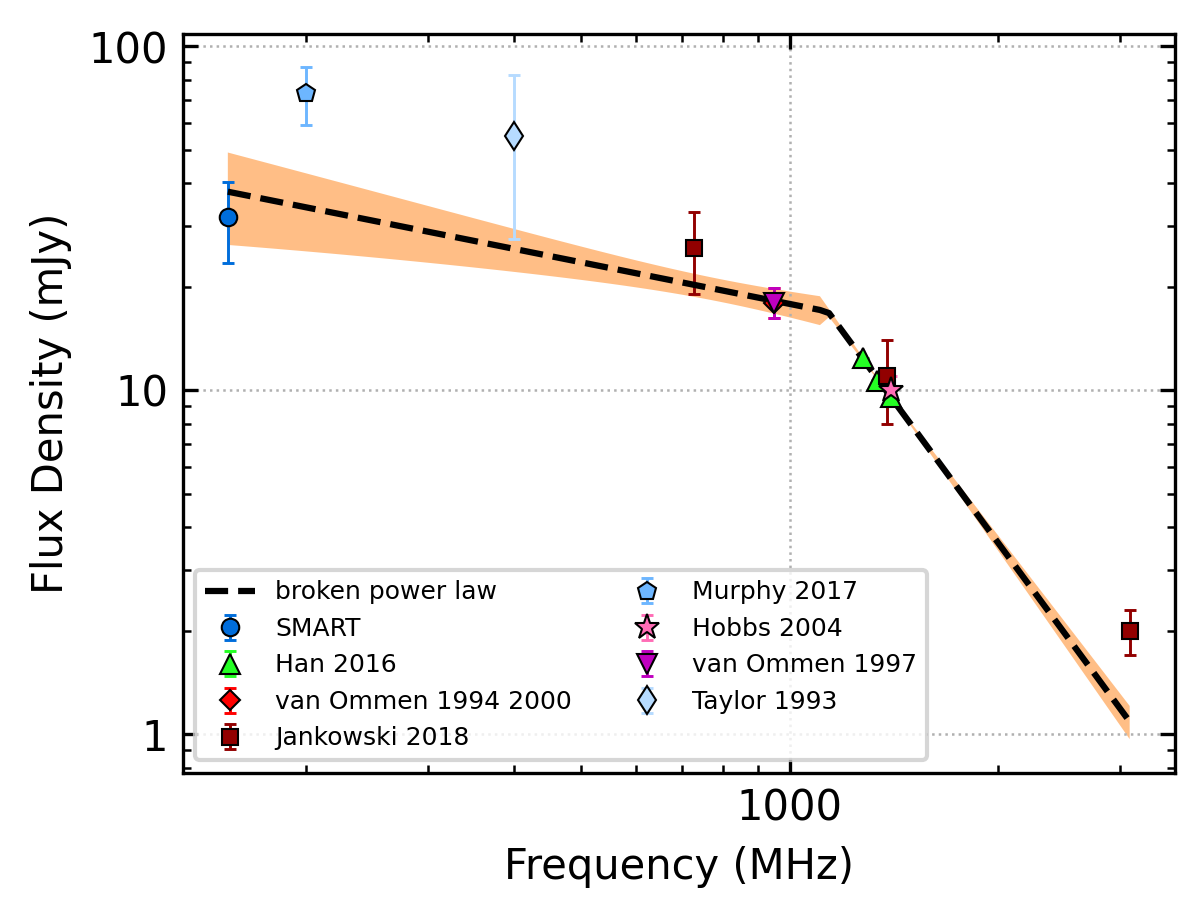
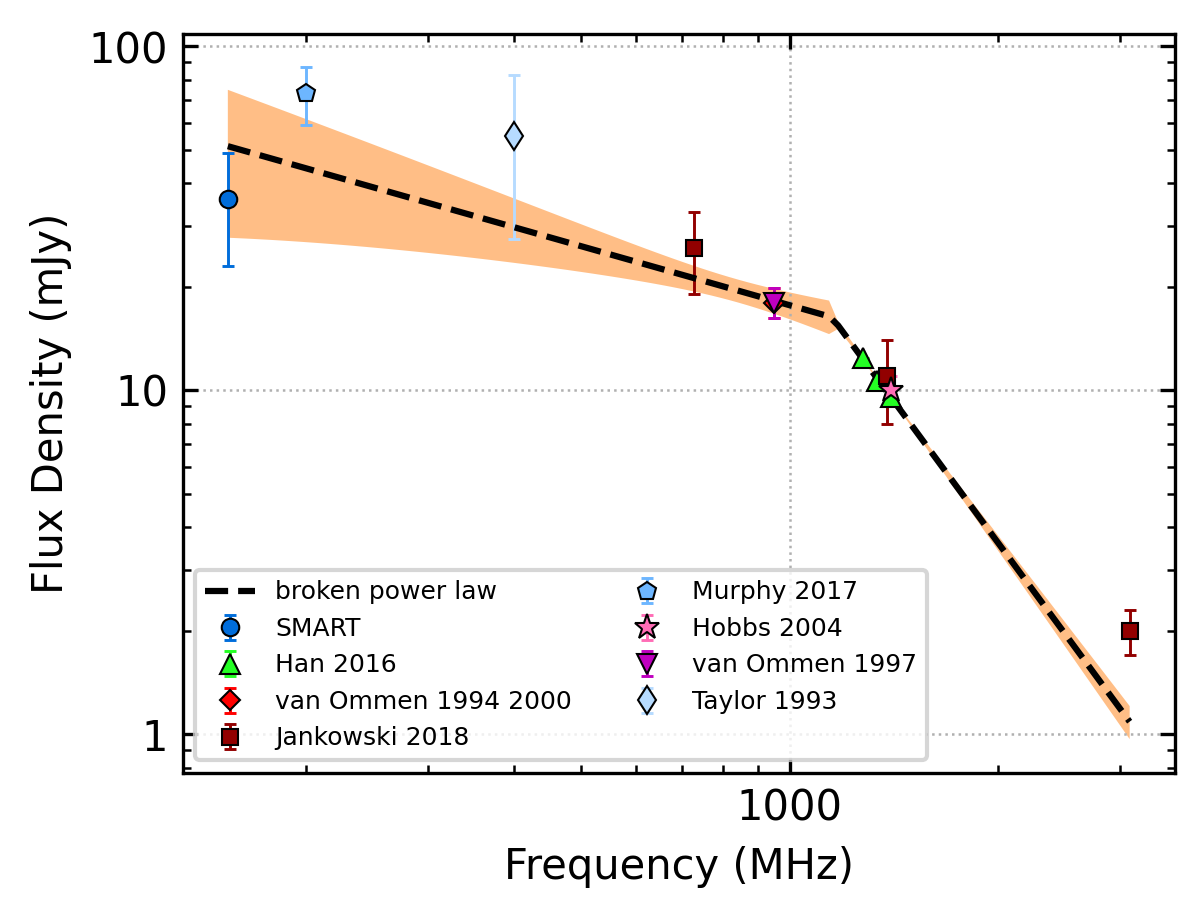
More fixes

diff --git a/docs/J0942-5552.rst b/docs/J0942-5552.rst
@@ -10,7 +10,7 @@ Best Fit
 .. csv-table:: J0942-5552 fit results
    :header: "model","vb (MHz)","a1","a2","b"
 
-   "broken_power_law","1135±50","-0.40±0.18","-2.73±0.14","0.02±0.00"
+   "broken_power_law","1151±62","-0.57±0.27","-2.73±0.14","0.02±0.00"
 
 Fit Before MWA
 --------------
@@ -28,13 +28,13 @@ Flux Density Results
 .. csv-table:: J0942-5552 flux density total results
    :header: "N obs", "Flux Density (mJy)", "u_S_mean", "u_scint", "m_r_v"
 
-   "1",  "31.9±8.4", "4.7", "7.0", "0.221"
+   "2",  "35.9±12.9", "11.9", "7.9", "0.221"
 
 .. csv-table:: J0942-5552 flux density individual results
    :header: "ObsID", "Flux Density (mJy)"
 
-    "1265983624", "nan±nan"
-    "1266932744", "31.9±4.7"
+    "1265983624", "34.6±10.6"
+    "1266932744", "37.3±5.4"
 
 Comparison Fit
 --------------
@@ -44,6 +44,11 @@ Comparison Fit
 Detection Plots
 ---------------
 
+.. image:: detection_plots/1265983624_J0942-5552.prepfold.png
+  :width: 800
+
+.. image:: on_pulse_plots/1265983624_J0942-5552_64_bins_gaussian_components.png
+  :width: 800
 .. image:: detection_plots/1266932744_J0942-5552.prepfold.png
   :width: 800
 

diff --git a/docs/index.rst b/docs/index.rst
@@ -12,7 +12,7 @@ Flux Density Results
 .. csv-table::
    :header: "Pulsar", "DM", "N obs", "Flux Density (mJy)", "u_S_mean", "u_scint", "m_r_v"
 
-   ":ref:`J0151-0635<J0151-0635>`", "25.66", "1",  "7.6±5.2", "3.1", "4.2", "0.551"
+   ":ref:`J0942-5552<J0942-5552>`", "180.16", "2",  "35.9±12.9", "11.9", "7.9", "0.221"
 
 Single Power Law Results
 ------------------------
@@ -25,13 +25,13 @@ Broken Power Law Results
 .. csv-table::
    :header: "Pulsar", "DM", "vb (MHz)", "a1", "a2", "b"
 
+   ":ref:`J0942-5552<J0942-5552>`", "180.16", "1151±62", "-0.57±0.27", "-2.73±0.14", "0.02±0.00"
 
 Log-parabolic spectrum Results
 ------------------------------
 .. csv-table::
    :header: "Pulsar", "DM", "a", "b", "c"
 
-   ":ref:`J0151-0635<J0151-0635>`", "25.66", "-1.62±0.21", "-2.70±0.28", "-2.72±0.07"
 
 Power law with high-frequency cut-off Results
 ---------------------------------------------
